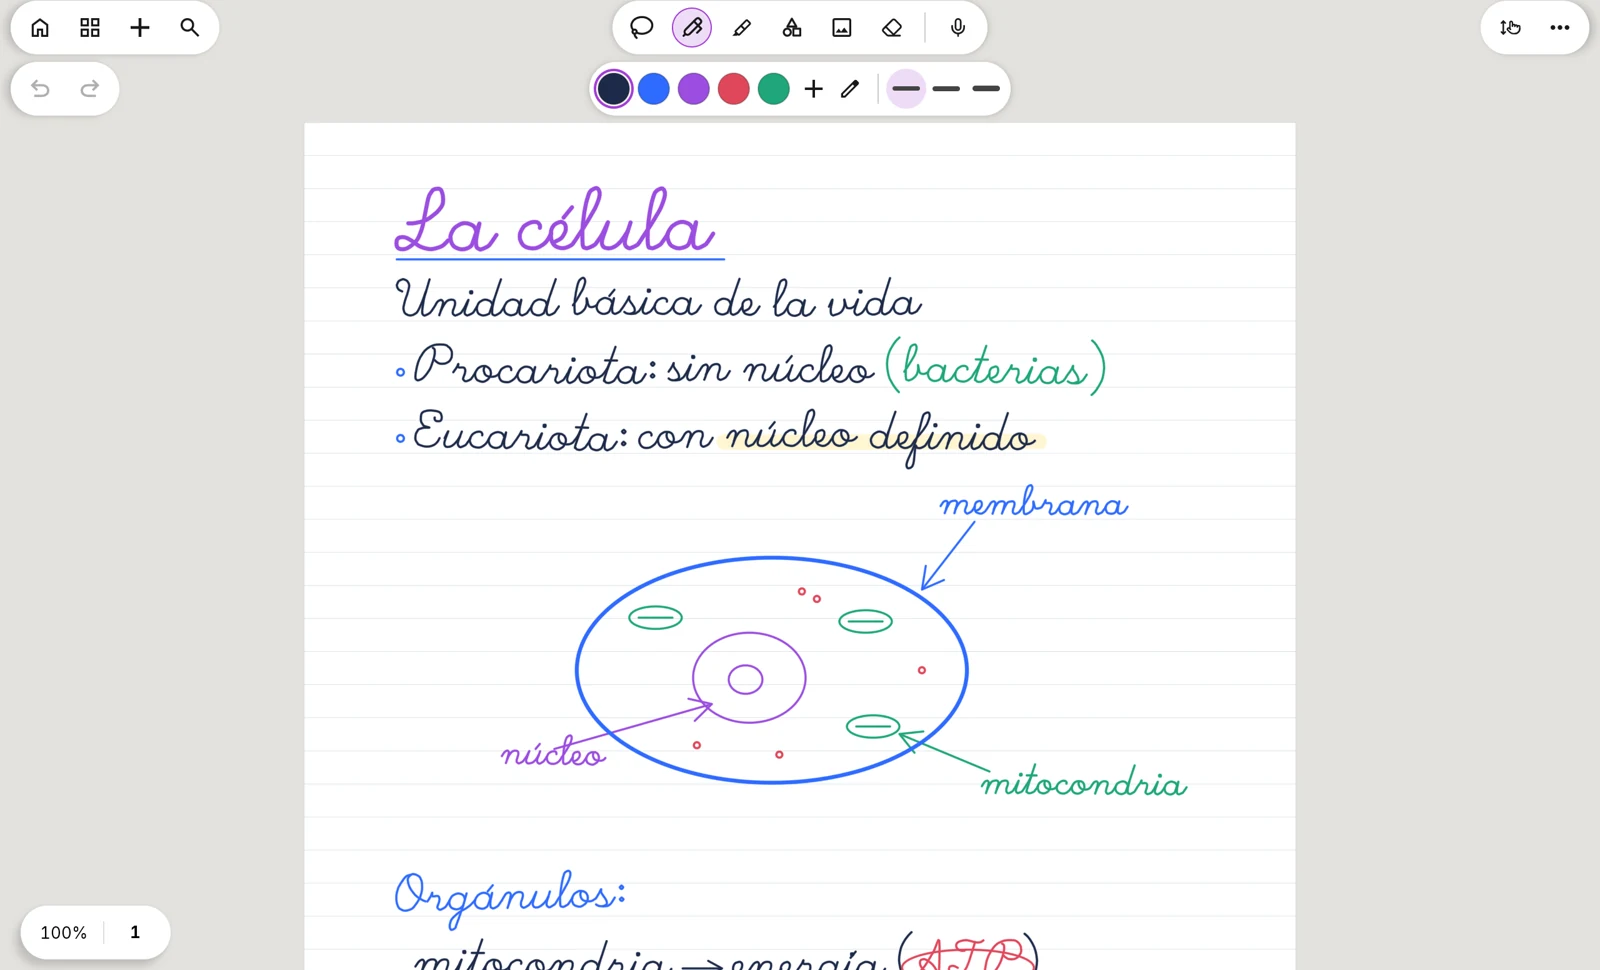
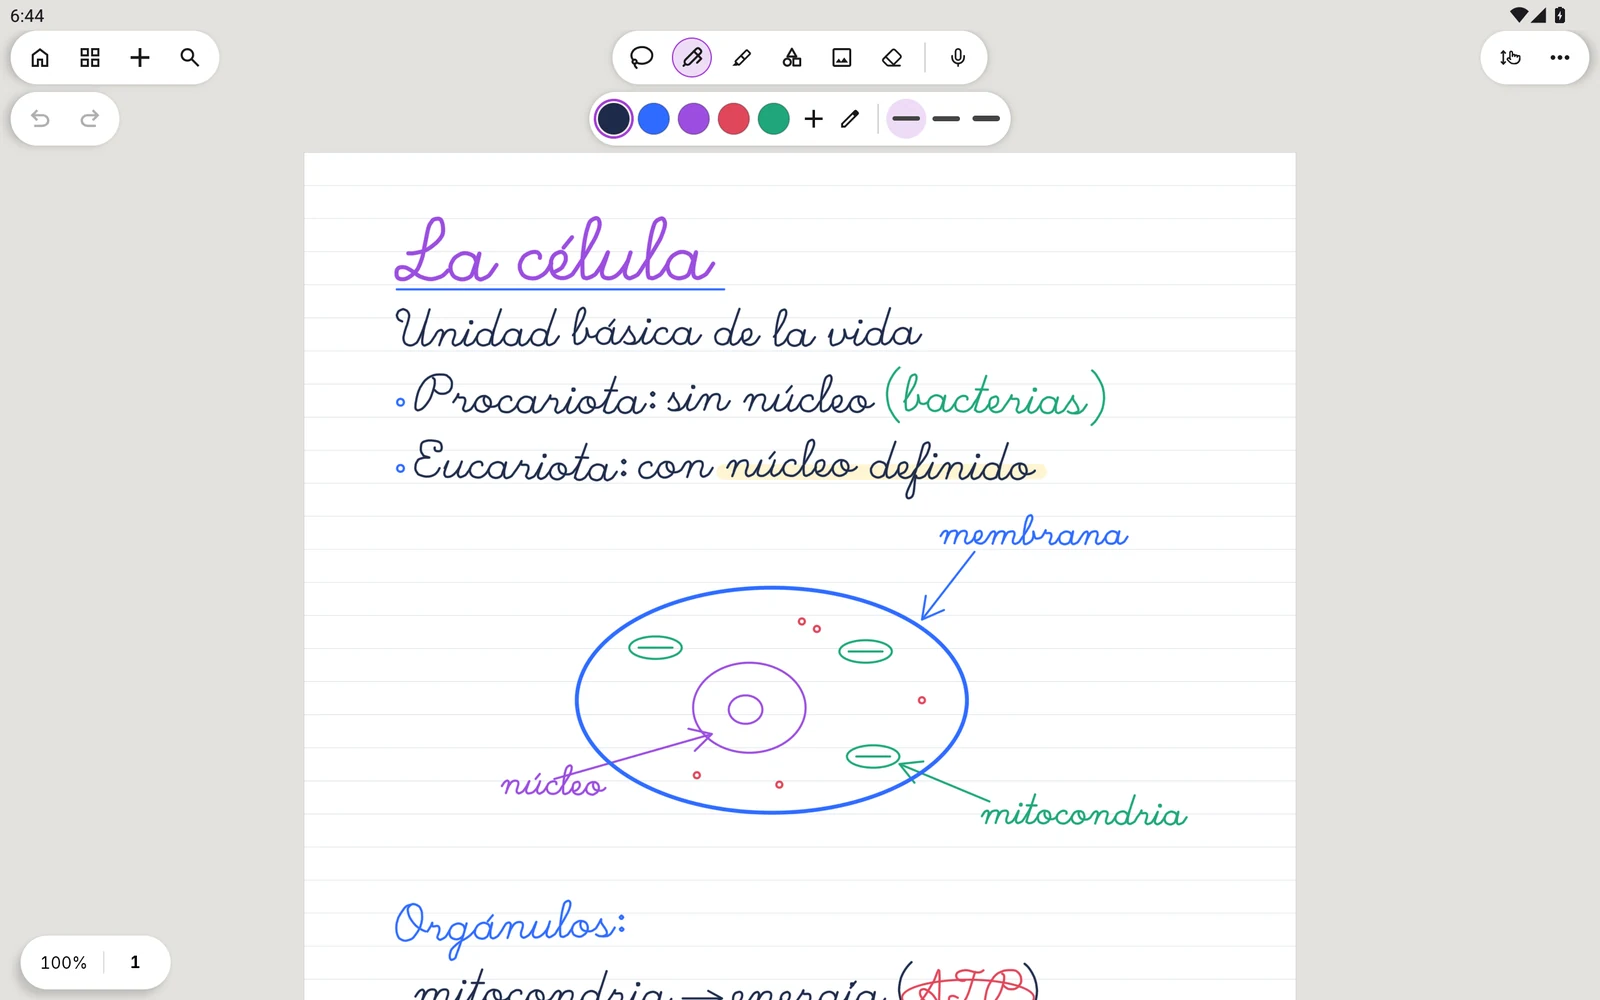
fix: las esquinas de las capturas y el aviso de mirar el spam
- Capturas de tableta (editor, biblioteca, lienzo; es/en, claro/oscuro)
  con su barra de estado, limpia y del color de la app, en vez de
  recortada: sin ella las píldoras de arriba quedaban pegadas a la
  esquina redondeada y la del zoom asomaba cortada. Ahora es la pantalla
  entera (16:10), como en el aparato.
- El lienzo infinito, en el marco de tableta como las demás: la caja con
  22 px de radio se comía la píldora del zoom.
- Al apuntarse, debajo del "¡Gracias!": que se le ha enviado un correo
  de confirmación y que, si no lo ve, mire en spam y lo marque como
  "No es spam".

diff --git a/swiftpen/index.html b/swiftpen/index.html
@@ -97,12 +97,12 @@
     <div class="escena aparece">
       <div class="tableta">
         <picture lang="es">
-          <source srcset="img/editor-dark-es.webp?v=4" media="(prefers-color-scheme: dark)">
-          <img src="img/editor-es.webp?v=4" width="1600" height="970" alt="Una nota de biología escrita a mano en SwiftPen, con un diagrama de la célula.">
+          <source srcset="img/editor-dark-es.webp?v=5" media="(prefers-color-scheme: dark)">
+          <img src="img/editor-es.webp?v=5" width="1600" height="1000" alt="Una nota de biología escrita a mano en SwiftPen, con un diagrama de la célula.">
         </picture>
         <picture lang="en">
-          <source srcset="img/editor-dark-en.webp?v=4" media="(prefers-color-scheme: dark)">
-          <img src="img/editor-en.webp?v=4" width="1600" height="970" alt="A handwritten biology note in SwiftPen, with a diagram of a cell.">
+          <source srcset="img/editor-dark-en.webp?v=5" media="(prefers-color-scheme: dark)">
+          <img src="img/editor-en.webp?v=5" width="1600" height="1000" alt="A handwritten biology note in SwiftPen, with a diagram of a cell.">
         </picture>
       </div>
       <div class="telefono">
@@ -193,15 +193,17 @@
         <li><svg class="i" aria-hidden="true"><use href="#i-ok"/></svg><span lang="es">Un botón te lleva al trazo más cercano si te pierdes</span><span lang="en">One button jumps to the nearest ink if you get lost</span></li>
       </ul>
     </div>
-    <div class="marco aparece">
+    <div class="escena solo-tableta aparece">
+      <div class="tableta">
       <picture lang="es">
-        <source srcset="img/lienzo-dark-es.webp?v=4" media="(prefers-color-scheme: dark)">
-        <img src="img/lienzo-es.webp?v=4" width="1600" height="970" loading="lazy" alt="Un mapa mental de un viaje a Japón en el lienzo infinito.">
+        <source srcset="img/lienzo-dark-es.webp?v=5" media="(prefers-color-scheme: dark)">
+        <img src="img/lienzo-es.webp?v=5" width="1600" height="1000" loading="lazy" alt="Un mapa mental de un viaje a Japón en el lienzo infinito.">
       </picture>
       <picture lang="en">
-        <source srcset="img/lienzo-dark-en.webp?v=4" media="(prefers-color-scheme: dark)">
-        <img src="img/lienzo-en.webp?v=4" width="1600" height="970" loading="lazy" alt="A mind map of a trip to Japan on the infinite canvas.">
+        <source srcset="img/lienzo-dark-en.webp?v=5" media="(prefers-color-scheme: dark)">
+        <img src="img/lienzo-en.webp?v=5" width="1600" height="1000" loading="lazy" alt="A mind map of a trip to Japan on the infinite canvas.">
       </picture>
+      </div>
     </div>
   </div>
 </section>
@@ -239,12 +241,12 @@
     <div class="escena escena-par aparece">
       <div class="tableta">
         <picture lang="es">
-          <source srcset="img/library-dark-es.webp?v=4" media="(prefers-color-scheme: dark)">
-          <img src="img/library-es.webp?v=4" width="1600" height="970" loading="lazy" alt="La misma biblioteca de notas en la tableta.">
+          <source srcset="img/library-dark-es.webp?v=5" media="(prefers-color-scheme: dark)">
+          <img src="img/library-es.webp?v=5" width="1600" height="1000" loading="lazy" alt="La misma biblioteca de notas en la tableta.">
         </picture>
         <picture lang="en">
-          <source srcset="img/library-dark-en.webp?v=4" media="(prefers-color-scheme: dark)">
-          <img src="img/library-en.webp?v=4" width="1600" height="970" loading="lazy" alt="The same note library on the tablet.">
+          <source srcset="img/library-dark-en.webp?v=5" media="(prefers-color-scheme: dark)">
+          <img src="img/library-en.webp?v=5" width="1600" height="1000" loading="lazy" alt="The same note library on the tablet.">
         </picture>
       </div>
       <div class="telefono">

diff --git a/assets/avisame.js b/assets/avisame.js
@@ -15,8 +15,8 @@
   var OPCION_CONSENTIMIENTO = "Sí";
 
   var TEXTOS = {
-    es: { email: "Introduce un email válido.", consentimiento: "Es necesario aceptar para recibir el aviso.", enviando: "Enviando…", listo: "¡Gracias! Serás de los primeros en saber cuándo sale SwiftPen.", error: "No se ha podido enviar. Inténtalo de nuevo más tarde." },
-    en: { email: "Please enter a valid email address.", consentimiento: "Please accept to receive the notice.", enviando: "Sending…", listo: "Thanks! You'll be among the first to know when SwiftPen launches.", error: "Something went wrong. Please try again later." }
+    es: { email: "Introduce un email válido.", consentimiento: "Es necesario aceptar para recibir el aviso.", enviando: "Enviando…", listo: "¡Gracias! Serás de los primeros en saber cuándo sale SwiftPen.", nota: "Te hemos enviado un correo de confirmación. Si no lo ves, mira en la carpeta de spam y márcalo como «No es spam» para no perderte el aviso del lanzamiento.", error: "No se ha podido enviar. Inténtalo de nuevo más tarde." },
+    en: { email: "Please enter a valid email address.", consentimiento: "Please accept to receive the notice.", enviando: "Sending…", listo: "Thanks! You'll be among the first to know when SwiftPen launches.", nota: "We've sent you a confirmation email. If you can't find it, check your spam folder and mark it as \"Not spam\" so you don't miss the launch notice.", error: "Something went wrong. Please try again later." }
   };
 
   document.querySelectorAll("form.avisame").forEach(function (form) {
@@ -35,7 +35,16 @@
       boton.disabled = true;
       estado.textContent = t.enviando;
       fetch(FORMULARIO, { method: "POST", mode: "no-cors", body: datos })
-        .then(function () { form.classList.add("enviado"); estado.textContent = t.listo; form.reset(); })
+        .then(function () {
+          form.classList.add("enviado");
+          // Dos lineas: el gracias y, mas discreto, que mire el spam.
+          estado.textContent = t.listo;
+          var nota = document.createElement("span");
+          nota.className = "avisame-nota";
+          nota.textContent = t.nota;
+          estado.appendChild(nota);
+          form.reset();
+        })
         .catch(function () { estado.textContent = t.error; })
         .then(function () { boton.disabled = false; });
     });

diff --git a/assets/site.css b/assets/site.css
@@ -220,6 +220,8 @@ section { padding: 96px 0; }
 .dueto-texto li svg { width: 20px; height: 20px; color: var(--accent); flex: none; margin-top: 4px; }
 .detalle { border-radius: 22px; overflow: hidden; border: 1px solid var(--border); box-shadow: var(--shadow); background: #fff; }
 .marco { border-radius: 22px; overflow: hidden; border: 1px solid var(--border); box-shadow: var(--shadow); background: var(--surface); }
+/* Una tableta sola en un dueto (el lienzo infinito): sin el margen de la escena. */
+.escena.solo-tableta { margin: 0; padding: 0; max-width: none; }
 .solo-telefono { width: 100%; max-width: 320px; justify-self: center; margin: 0 auto; container-type: inline-size; }
 .solo-telefono .telefono { position: relative; right: auto; bottom: auto; width: 100cqw; margin: 0; --radio: 15cqw; --borde: 4.7cqw; }
 @media (max-width: 719px) {
@@ -376,6 +378,7 @@ svg.lleno { fill: currentColor; stroke: none; }
 .avisame-consentimiento { display: flex; gap: 10px; align-items: flex-start; margin-top: 12px; font-size: 14px; color: var(--muted); cursor: pointer; }
 .avisame-consentimiento input { margin-top: 3px; accent-color: var(--accent); width: 16px; height: 16px; flex: none; }
 .avisame-estado { min-height: 1.4em; margin: 10px 0 0; font-size: 14.5px; font-weight: 600; color: var(--accent); text-align: center; }
+.avisame-nota { display: block; margin-top: 6px; font-weight: 500; color: var(--muted); }
 .avisame.enviado .avisame-fila, .avisame.enviado .avisame-consentimiento { display: none; }
 .solo-lectores { position: absolute; width: 1px; height: 1px; overflow: hidden; clip: rect(0 0 0 0); white-space: nowrap; }
 @media (max-width: 479px) { .avisame-fila { flex-direction: column; } }
